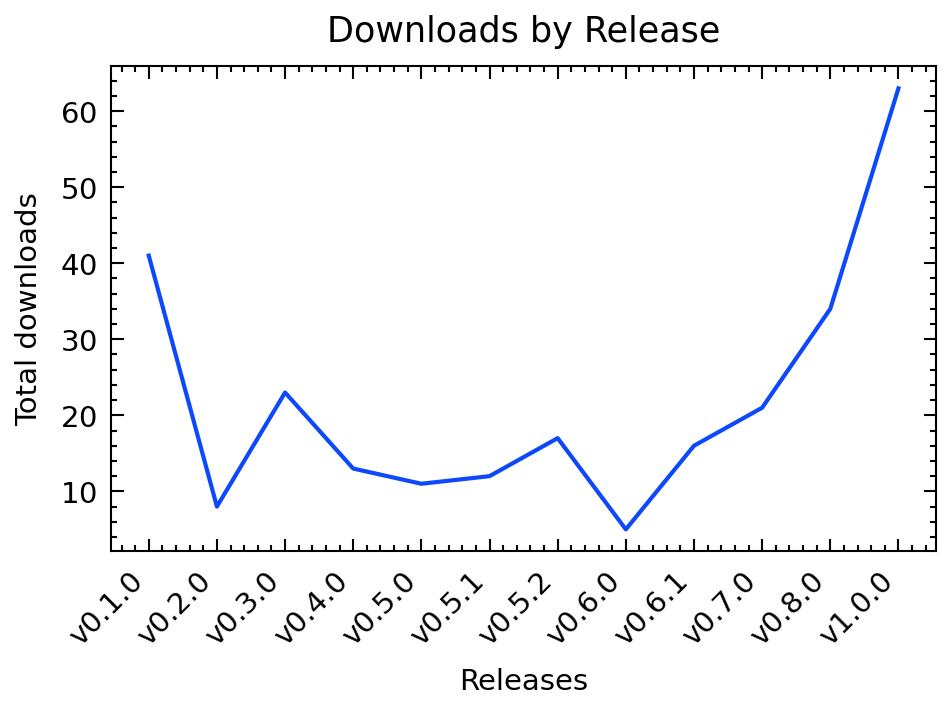
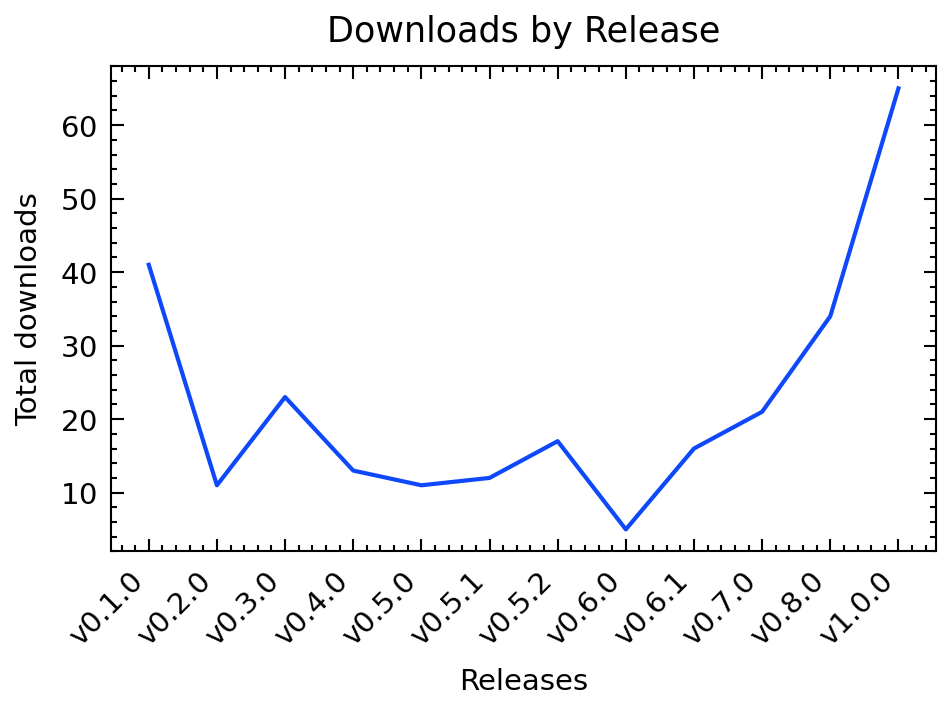
Updated Metrics data

diff --git a/README.md b/README.md
@@ -4,7 +4,7 @@
 SciWIn-Client helps users creating **Computational Workflows** in CWL. Detailed Information about SciWIn-Client can be found in the [GitHub Repository](https://github.com/fairagro/m4.4_sciwin_client). The Metrics shown below have been calculated using the GitHub API. Presentation is done via a CWL Workflow and the scripts in this repository.
 
 ## Downloads by Version
-SciWIn-Client currently has about 264 overall downloads across all versions and operating systems. The lastest version v1.0.0 currently has 63 downloads.
+SciWIn-Client currently has about 269 overall downloads across all versions and operating systems. The lastest version v1.0.0 currently has 65 downloads.
 
 
 ![downloads by version](release.png)
@@ -12,7 +12,7 @@ SciWIn-Client currently has about 264 overall downloads across all versions and 
 
 | Version | Downloads |
 |---------|-----------|
-| v1.0.0 | 63|
+| v1.0.0 | 65|
 | v0.8.0 | 34|
 | v0.7.0 | 21|
 | v0.6.1 | 16|
@@ -22,12 +22,12 @@ SciWIn-Client currently has about 264 overall downloads across all versions and 
 | v0.5.0 | 11|
 | v0.4.0 | 13|
 | v0.3.0 | 23|
-| v0.2.0 | 8|
+| v0.2.0 | 11|
 | v0.1.0 | 41|
 
 
 ## Downloads by Operating System
-SciWIn-Client is used on all major operating systems. There are 150 downloads of the Linux executable, 48 downloads of the Windows executable and 66 downloads of the Mac OS executable.
+SciWIn-Client is used on all major operating systems. There are 154 downloads of the Linux executable, 49 downloads of the Windows executable and 66 downloads of the Mac OS executable.
 
 
 ![downloads by platform](platform.png)
@@ -36,14 +36,14 @@ SciWIn-Client is used on all major operating systems. There are 150 downloads of
 | Platform | Downloads |
 |---------|-----------|
 | MacOS (ARM) | 38|
-| Linux (ARM) | 32|
+| Linux (ARM) | 33|
 | MacOS (x64) | 28|
-| Windows (x64) | 48|
-| Linux (x64) | 118|
+| Windows (x64) | 49|
+| Linux (x64) | 121|
 
 
 ## Historical Download Chart
-The historical download chart can be viewed below. It is shown how the 264 overall downloads progressed over time by using the commited data of this repository.
+The historical download chart can be viewed below. It is shown how the 269 overall downloads progressed over time by using the commited data of this repository.
 
 
 ![downloads by date](history.png)
